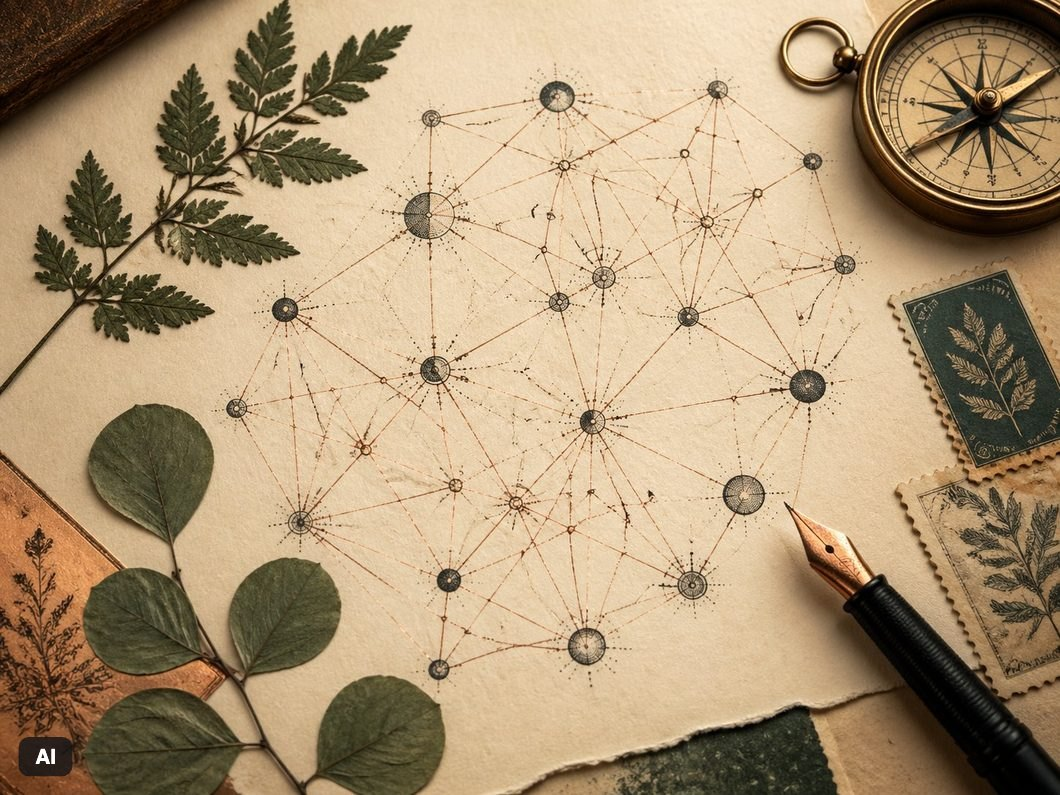
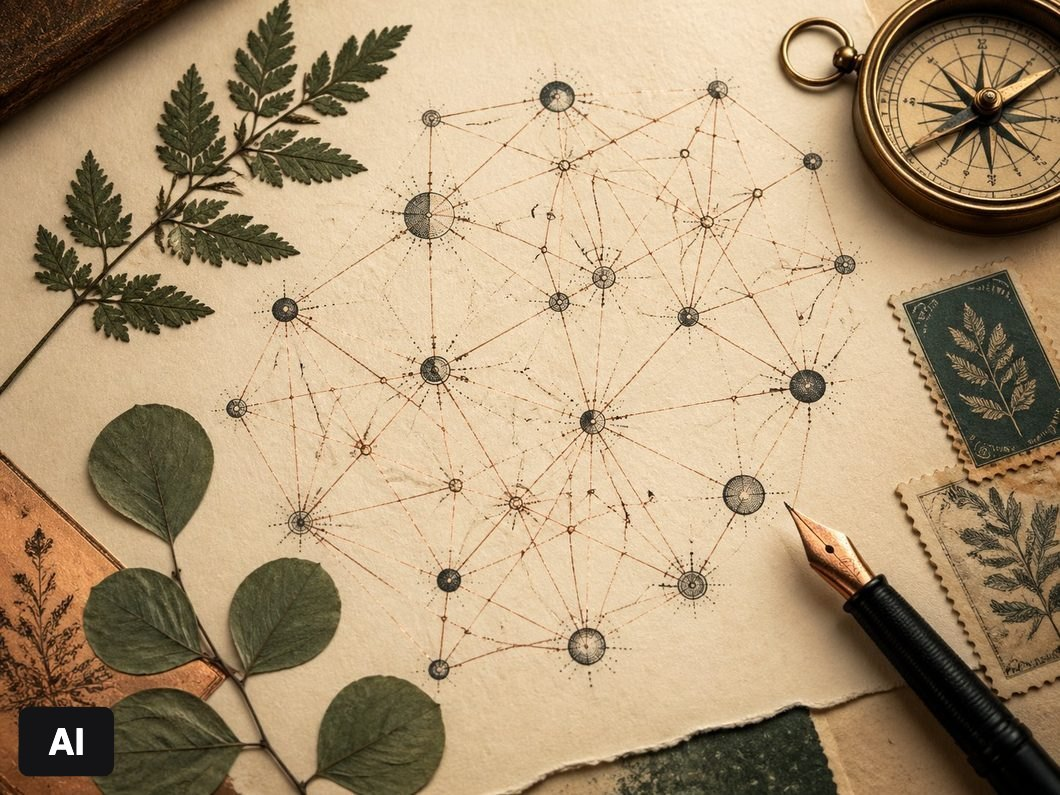
The home grid's website, AI bureau and link building tiles each show their own subject: KapperAI's real page of designs to choose from (was an AI gallery of made-up templates), the bureau's own characters for its services, and a map of links (were two canal-side office scenes); the AI telephone's ph

Changed region(s): [[0.0, 0.8755, 0.1245, 0.9962]]

diff --git a/index.html b/index.html
@@ -723,29 +723,29 @@
             </div>
           </div>
           <div class="services-sticker-grid">
-            <a href="/seo" class="svc-card"><div class="svc-bg" style="background-image:url(/assets/images/services/seo-hero.webp);--bg-phone:url(/assets/images/services/seo-hero-phone.jpg);"></div><div class="svc-overlay"></div><div class="svc-content"><span class="svc-num">01</span><div class="svc-title">AI &amp; Google Vindbaarheid</div><p class="svc-desc">Dominantie in ChatGPT en Google met dagelijkse SEO-content.</p><span class="svc-link">Meer info →</span></div><div class="svc-sticker"><img src="/assets/images/stickers/world.webp" alt="Cuphead wereldbol, SEO dienst"></div></a>
+            <a href="/seo" class="svc-card" style="--hole:91px;--hole-phone:40px"><div class="svc-bg" style="background-image:url(/assets/images/services/seo-hero.webp);--bg-phone:url(/assets/images/services/seo-hero-phone.jpg);"></div><div class="svc-overlay"></div><div class="svc-content"><span class="svc-num">01</span><div class="svc-title">AI &amp; Google Vindbaarheid</div><p class="svc-desc">Dominantie in ChatGPT en Google met dagelijkse SEO-content.</p><span class="svc-link">Meer info →</span></div><div class="svc-sticker"><img src="/assets/images/stickers/world.webp" alt="Cuphead wereldbol, SEO dienst"></div></a>
 
-            <a href="/chatbot" class="svc-card"><div class="svc-bg" style="background-image:url(/assets/images/services/chatbot-hover.webp);--bg-phone:url(/assets/images/services/chatbot-hover-phone.jpg);"></div><div class="svc-overlay"></div><div class="svc-content"><span class="svc-num">02</span><div class="svc-title">AI Chatbot</div><p class="svc-desc">24/7 leadopvang. Draait op jouw kennis.</p><span class="svc-link">Meer info →</span></div><div class="svc-sticker"><img src="/assets/images/stickers/hourglass.webp" alt="Cuphead zandloper: Chatbot dienst"></div></a>
+            <a href="/chatbot" class="svc-card" style="--hole:89px;--hole-phone:55px"><div class="svc-bg" style="background-image:url(/assets/images/services/chatbot-hover.webp);--bg-phone:url(/assets/images/services/chatbot-hover-phone.jpg);"></div><div class="svc-overlay"></div><div class="svc-content"><span class="svc-num">02</span><div class="svc-title">AI Chatbot</div><p class="svc-desc">24/7 leadopvang. Draait op jouw kennis.</p><span class="svc-link">Meer info →</span></div><div class="svc-sticker"><img src="/assets/images/stickers/hourglass.webp" alt="Cuphead zandloper: Chatbot dienst"></div></a>
 
-            <a href="/voice-ai" class="svc-card"><div class="svc-bg" style="background-image:url(/assets/images/services/voice-hero.webp);--bg-phone:url(/assets/images/services/voice-hero-phone.jpg);"></div><div class="svc-overlay"></div><div class="svc-content"><span class="svc-num">03</span><div class="svc-title">AI Telefonist</div><p class="svc-desc">Gemiste oproepen? Nooit meer.</p><span class="svc-link">Meer info →</span></div><div class="svc-sticker"><img src="/assets/images/stickers/draaitafel.webp" alt="Cuphead draaitafel: Voice AI dienst"></div></a>
+            <a href="/voice-ai" class="svc-card" style="--hole:91px;--hole-phone:42px"><div class="svc-bg" style="background-image:url(/assets/images/services/voice-hero.webp);--bg-phone:url(/assets/images/services/voice-hero-phone.jpg);"></div><div class="svc-overlay"></div><div class="svc-content"><span class="svc-num">03</span><div class="svc-title">AI Telefonist</div><p class="svc-desc">Gemiste oproepen? Nooit meer.</p><span class="svc-link">Meer info →</span></div><div class="svc-sticker"><img src="/assets/images/stickers/draaitafel.webp" alt="Cuphead draaitafel: Voice AI dienst"></div></a>
 
-            <a href="/reviews" class="svc-card"><div class="svc-bg" style="background-image:url(/assets/images/services/reviews-hero.webp);--bg-phone:url(/assets/images/services/reviews-hero-phone.jpg);"></div><div class="svc-overlay"></div><div class="svc-content"><span class="svc-num">04</span><div class="svc-title">Review Management</div><p class="svc-desc">5-sterren reviews op autopilot.</p><span class="svc-link">Meer info →</span></div><div class="svc-sticker"><img src="/assets/images/stickers/ferris.webp" alt="Cuphead reuzenrad: Reviews dienst"></div></a>
+            <a href="/reviews" class="svc-card" style="--hole:84px;--hole-phone:40px"><div class="svc-bg" style="background-image:url(/assets/images/services/reviews-hero.webp);--bg-phone:url(/assets/images/services/reviews-hero-phone.jpg);"></div><div class="svc-overlay"></div><div class="svc-content"><span class="svc-num">04</span><div class="svc-title">Review Management</div><p class="svc-desc">5-sterren reviews op autopilot.</p><span class="svc-link">Meer info →</span></div><div class="svc-sticker"><img src="/assets/images/stickers/ferris.webp" alt="Cuphead reuzenrad: Reviews dienst"></div></a>
 
-            <a href="/social-media" class="svc-card"><div class="svc-bg" style="background-image:url(/assets/images/services/social-hero.webp);--bg-phone:url(/assets/images/services/social-hero-phone.jpg);"></div><div class="svc-overlay"></div><div class="svc-content"><span class="svc-num">05</span><div class="svc-title">Social Media</div><p class="svc-desc">Content, beheer en scheduling.</p><span class="svc-link">Meer info →</span></div><div class="svc-sticker"><img src="/assets/images/stickers/discoball.webp" alt="Cuphead discobal: Social Media dienst"></div></a>
+            <a href="/social-media" class="svc-card" style="--hole:84px;--hole-phone:51px"><div class="svc-bg" style="background-image:url(/assets/images/services/social-hero.webp);--bg-phone:url(/assets/images/services/social-hero-phone.jpg);"></div><div class="svc-overlay"></div><div class="svc-content"><span class="svc-num">05</span><div class="svc-title">Social Media</div><p class="svc-desc">Content, beheer en scheduling.</p><span class="svc-link">Meer info →</span></div><div class="svc-sticker"><img src="/assets/images/stickers/discoball.webp" alt="Cuphead discobal: Social Media dienst"></div></a>
 
-            <a href="/marketing-uitbesteden" class="svc-card"><div class="svc-bg" style="background-image:url(/assets/images/services/marketing-hover.webp);--bg-phone:url(/assets/images/services/marketing-hover-phone.jpg);"></div><div class="svc-overlay"></div><div class="svc-content"><span class="svc-num">06</span><div class="svc-title">Marketing uitbesteden</div><p class="svc-desc">Alles-in-één, meetbaar resultaat.</p><span class="svc-link">Meer info →</span></div><div class="svc-sticker"><img src="/assets/images/stickers/helikopter.webp" alt="Cuphead helikopter: Marketing dienst"></div></a>
+            <a href="/marketing-uitbesteden" class="svc-card" style="--hole:83px;--hole-phone:50px"><div class="svc-bg" style="background-image:url(/assets/images/services/marketing-hover.webp);--bg-phone:url(/assets/images/services/marketing-hover-phone.jpg);"></div><div class="svc-overlay"></div><div class="svc-content"><span class="svc-num">06</span><div class="svc-title">Marketing uitbesteden</div><p class="svc-desc">Alles-in-één, meetbaar resultaat.</p><span class="svc-link">Meer info →</span></div><div class="svc-sticker"><img src="/assets/images/stickers/helikopter.webp" alt="Cuphead helikopter: Marketing dienst"></div></a>
 
-            <a href="/automations" class="svc-card"><div class="svc-bg" style="background-image:url(/assets/images/services/automations-hero.webp);--bg-phone:url(/assets/images/services/automations-hero-phone.jpg);"></div><div class="svc-overlay"></div><div class="svc-content"><span class="svc-num">07</span><div class="svc-title">Automatisering</div><p class="svc-desc">N8N workflows en AI-systemen.</p><span class="svc-link">Meer info →</span></div><div class="svc-sticker"><img src="/assets/images/stickers/gear.webp" alt="Cuphead tandwiel: Automatisering dienst"></div></a>
+            <a href="/automations" class="svc-card" style="--hole:82px;--hole-phone:60px"><div class="svc-bg" style="background-image:url(/assets/images/services/automations-hero.webp);--bg-phone:url(/assets/images/services/automations-hero-phone.jpg);"></div><div class="svc-overlay"></div><div class="svc-content"><span class="svc-num">07</span><div class="svc-title">Automatisering</div><p class="svc-desc">N8N workflows en AI-systemen.</p><span class="svc-link">Meer info →</span></div><div class="svc-sticker"><img src="/assets/images/stickers/gear.webp" alt="Cuphead tandwiel: Automatisering dienst"></div></a>
 
-            <a href="/herinneringen" class="svc-card"><div class="svc-bg" style="background-image:url(/assets/images/services/herinneringen-hover.webp);--bg-phone:url(/assets/images/services/herinneringen-hover-phone.jpg);"></div><div class="svc-overlay"></div><div class="svc-content"><span class="svc-num">08</span><div class="svc-title">Herinneringen</div><p class="svc-desc">50-70% minder no-shows.</p><span class="svc-link">Meer info →</span></div><div class="svc-sticker"><img src="/assets/images/stickers/washing.webp" alt="Cuphead wasmachine: Herinneringen dienst"></div></a>
+            <a href="/herinneringen" class="svc-card" style="--hole:83px;--hole-phone:47px"><div class="svc-bg" style="background-image:url(/assets/images/services/herinneringen-hover.webp);--bg-phone:url(/assets/images/services/herinneringen-hover-phone.jpg);"></div><div class="svc-overlay"></div><div class="svc-content"><span class="svc-num">08</span><div class="svc-title">Herinneringen</div><p class="svc-desc">50-70% minder no-shows.</p><span class="svc-link">Meer info →</span></div><div class="svc-sticker"><img src="/assets/images/stickers/washing.webp" alt="Cuphead wasmachine: Herinneringen dienst"></div></a>
 
-            <a href="/website-laten-maken" class="svc-card"><div class="svc-bg" style="background-image:url(/assets/images/services/website-laten-maken-section.webp);--bg-phone:url(/assets/images/services/website-laten-maken-section-phone.jpg);"></div><div class="svc-overlay"></div><div class="svc-content"><span class="svc-num">09</span><div class="svc-title">Website laten maken</div><p class="svc-desc">Binnen 2 weken live, €79 per maand.</p><span class="svc-link">Meer info →</span></div><div class="svc-sticker"><img src="/assets/images/stickers/windmill.webp" alt="Cuphead windmolen: Website dienst"></div></a>
+            <a href="/website-laten-maken" class="svc-card" style="--hole:46px;--hole-phone:47px"><div class="svc-bg" style="background-image:url(/assets/images/services/website-laten-maken-ontwerpen.jpg);--bg-phone:url(/assets/images/services/website-laten-maken-ontwerpen-phone.jpg);"></div><div class="svc-overlay"></div><div class="svc-content"><span class="svc-num">09</span><div class="svc-title">Website laten maken</div><p class="svc-desc">Binnen 2 weken live, €79 per maand.</p><span class="svc-link">Meer info →</span></div><div class="svc-sticker"><img src="/assets/images/stickers/windmill.webp" alt="Cuphead windmolen: Website dienst"></div></a>
 
-            <a href="/ai-marketing-bureau" class="svc-card"><div class="svc-bg" style="background-image:url(/assets/images/services/ai-bureau-default.webp);--bg-phone:url(/assets/images/services/ai-bureau-default-phone.jpg);"></div><div class="svc-overlay"></div><div class="svc-content"><span class="svc-num">10</span><div class="svc-title">AI Marketing Bureau</div><p class="svc-desc">Full-service AI bureau voor het MKB.</p><span class="svc-link">Meer info →</span></div><div class="svc-sticker"><img src="/assets/images/stickers/world.webp" alt="AI Marketing Bureau"></div></a>
+            <a href="/ai-marketing-bureau" class="svc-card" style="--hole:49px;--hole-phone:42px"><div class="svc-bg" style="background-image:url(/assets/images/services/ai-bureau-team.jpg);--bg-phone:url(/assets/images/services/ai-bureau-team-phone.jpg);"></div><div class="svc-overlay"></div><div class="svc-content"><span class="svc-num">10</span><div class="svc-title">AI Marketing Bureau</div><p class="svc-desc">Full-service AI bureau voor het MKB.</p><span class="svc-link">Meer info →</span></div><div class="svc-sticker"><img src="/assets/images/stickers/world.webp" alt="AI Marketing Bureau"></div></a>
 
-            <a href="/linkbuilding" class="svc-card"><div class="svc-bg" style="background-image:url(/assets/images/linkbuilding/linkbuilding-hero.jpg);--bg-phone:url(/assets/images/linkbuilding/linkbuilding-hero-phone.jpg);"></div><div class="svc-overlay"></div><div class="svc-content"><span class="svc-num">11</span><div class="svc-title">Linkbuilding</div><p class="svc-desc">Witte-hoed backlinks die je rankings verzetten.</p><span class="svc-link">Meer info →</span></div></a>
+            <a href="/linkbuilding" class="svc-card" style="--hole:46px;--hole-phone:42px"><div class="svc-bg" style="background-image:url(/assets/images/linkbuilding/linkbuilding-anatomy.jpg);--bg-phone:url(/assets/images/linkbuilding/linkbuilding-anatomy-phone.jpg);"></div><div class="svc-overlay"></div><div class="svc-content"><span class="svc-num">11</span><div class="svc-title">Linkbuilding</div><p class="svc-desc">Witte-hoed backlinks die je rankings verzetten.</p><span class="svc-link">Meer info →</span></div></a>
 
-            <a href="/crm" class="svc-card"><div class="svc-bg" style="background-image:url(/assets/images/crm/crm-hero.jpg);--bg-phone:url(/assets/images/crm/crm-hero-phone.jpg);"></div><div class="svc-overlay"></div><div class="svc-content"><span class="svc-num">12</span><div class="svc-title">CRM voor MKB</div><p class="svc-desc">Alles-in-één klantbeheer met AI, in Ezida Full vanaf €179 per maand.</p><span class="svc-link">Meer info →</span></div></a>
+            <a href="/crm" class="svc-card" style="--hole:89px;--hole-phone:40px"><div class="svc-bg" style="background-image:url(/assets/images/crm/crm-hero.jpg);--bg-phone:url(/assets/images/crm/crm-hero-phone.jpg);"></div><div class="svc-overlay"></div><div class="svc-content"><span class="svc-num">12</span><div class="svc-title">CRM voor MKB</div><p class="svc-desc">Alles-in-één klantbeheer met AI, in Ezida Full vanaf €179 per maand.</p><span class="svc-link">Meer info →</span></div></a>
           </div>
         </div>
       </div>
@@ -1251,7 +1251,7 @@
     
     
     
-    .svc-overlay{position:absolute;inset:0;background:linear-gradient(135deg,rgba(31,42,46,0.92) 0%,rgba(31,42,46,0.75) 100%);opacity:1;transition:opacity 0.4s;z-index:1;-webkit-mask-image:radial-gradient(ellipse 75% 40% at 0 100%,transparent 0,transparent 75%,#000 100%);mask-image:radial-gradient(ellipse 75% 40% at 0 100%,transparent 0,transparent 75%,#000 100%)}
+    .svc-overlay{position:absolute;inset:0;background:linear-gradient(135deg,rgba(31,42,46,0.92) 0%,rgba(31,42,46,0.75) 100%);opacity:1;transition:opacity 0.4s;z-index:1;-webkit-mask-image:linear-gradient(to right,transparent var(--hole,92px),#000 calc(var(--hole,92px) + 14px)),linear-gradient(to top,transparent var(--hole,92px),#000 calc(var(--hole,92px) + 14px));mask-image:linear-gradient(to right,transparent var(--hole,92px),#000 calc(var(--hole,92px) + 14px)),linear-gradient(to top,transparent var(--hole,92px),#000 calc(var(--hole,92px) + 14px))}@media(max-width:767.98px){.svc-overlay{--hole:var(--hole-phone,60px)}}
     .svc-card:hover{z-index:10}
     .svc-content{position:relative;z-index:2;padding-bottom:48px}@media(max-width:768px){.svc-content{padding-bottom:64px}}
     .svc-num{font-size:0.6rem;font-weight:700;color:rgba(255,255,255,0.15);letter-spacing:0.15em;margin-bottom:10px;display:block;transition:color 0.3s}
